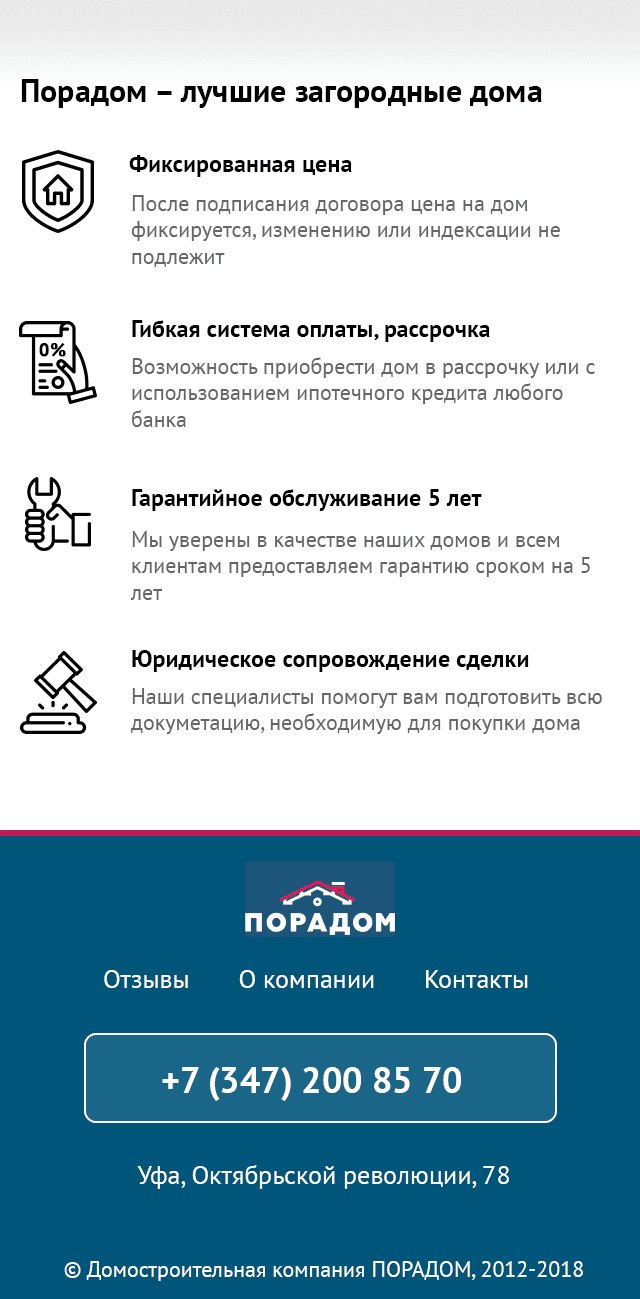
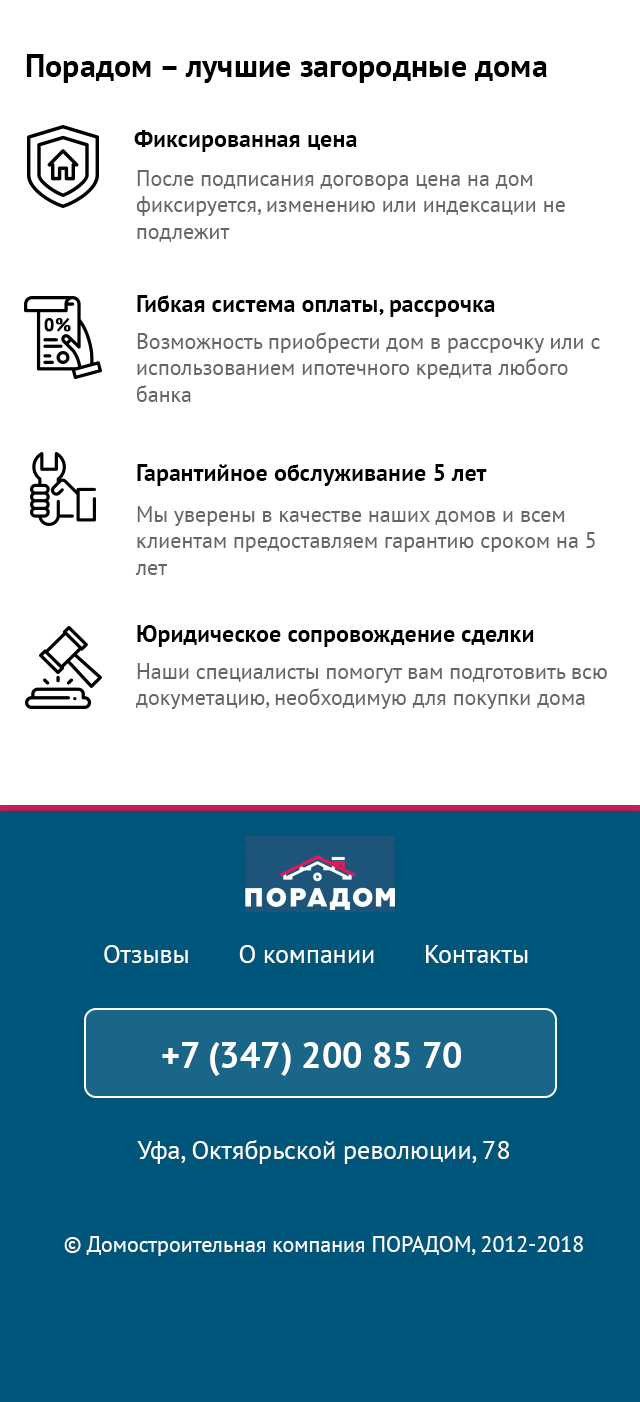
1

Changed region(s): [[0.0, 0.0308, 1.0, 0.9238], [0.0938, 0.9546, 0.9062, 0.9854]]

diff --git a/food/custom.css b/food/custom.css
@@ -169,7 +169,7 @@ overflow:hidden;
 overflow:hidden;
       height: 100%;
       padding: 0 1rem;
-      margin-bottom: 5rem;
+
 
   }
 
